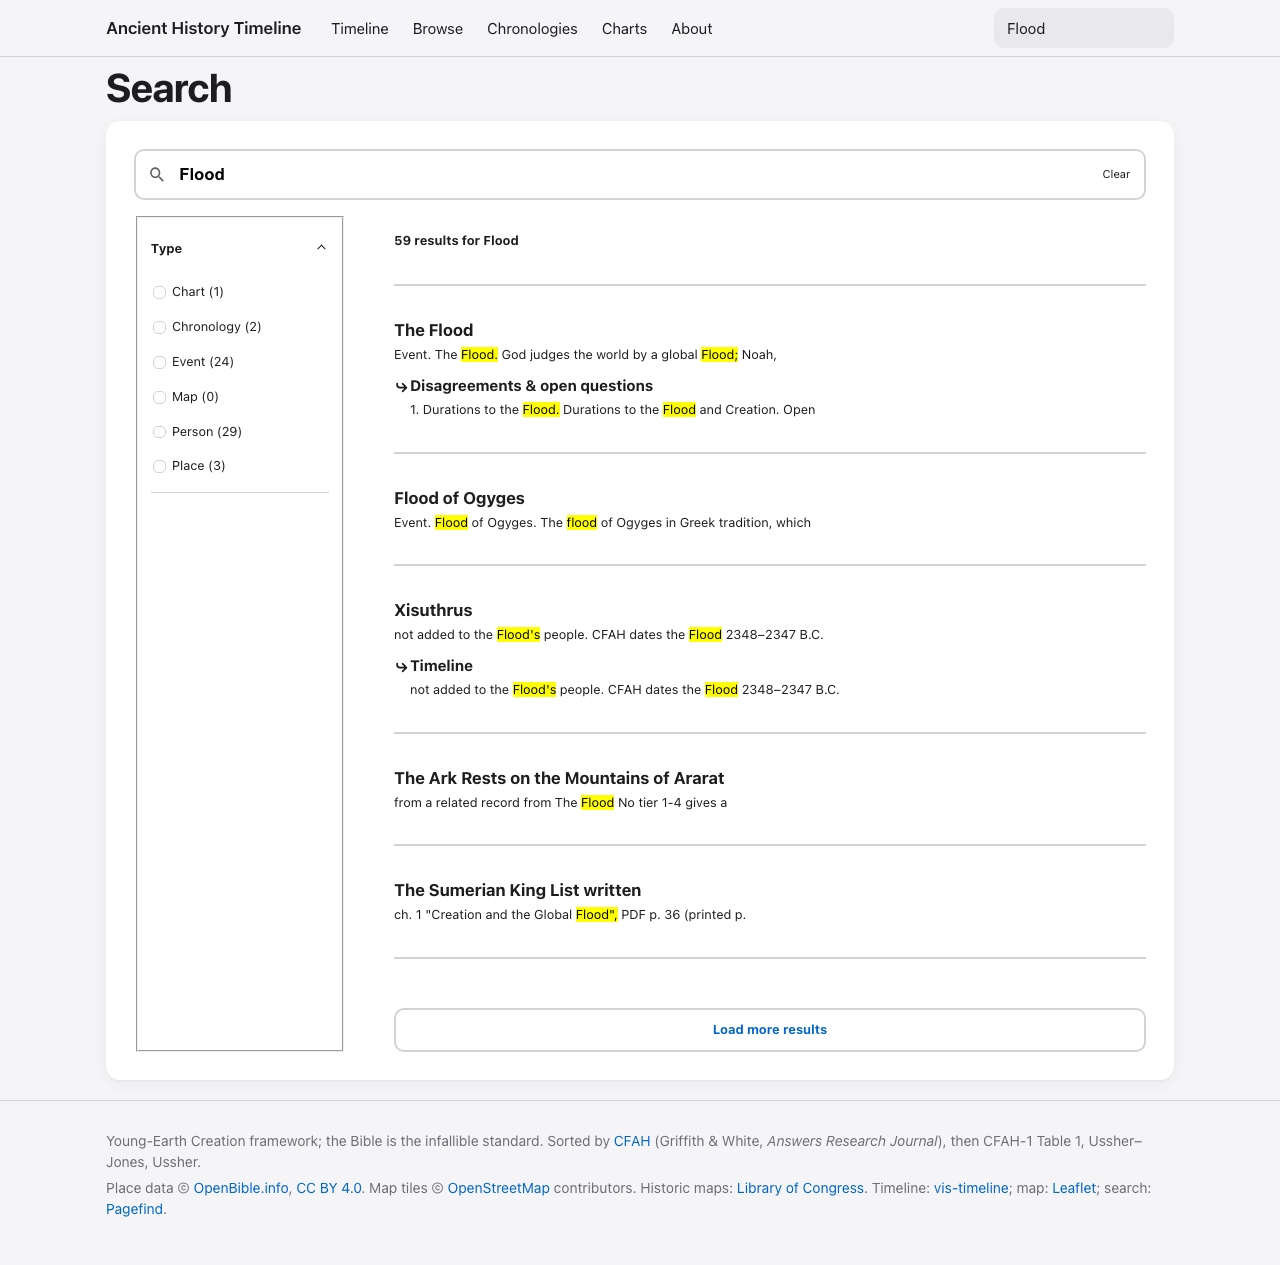
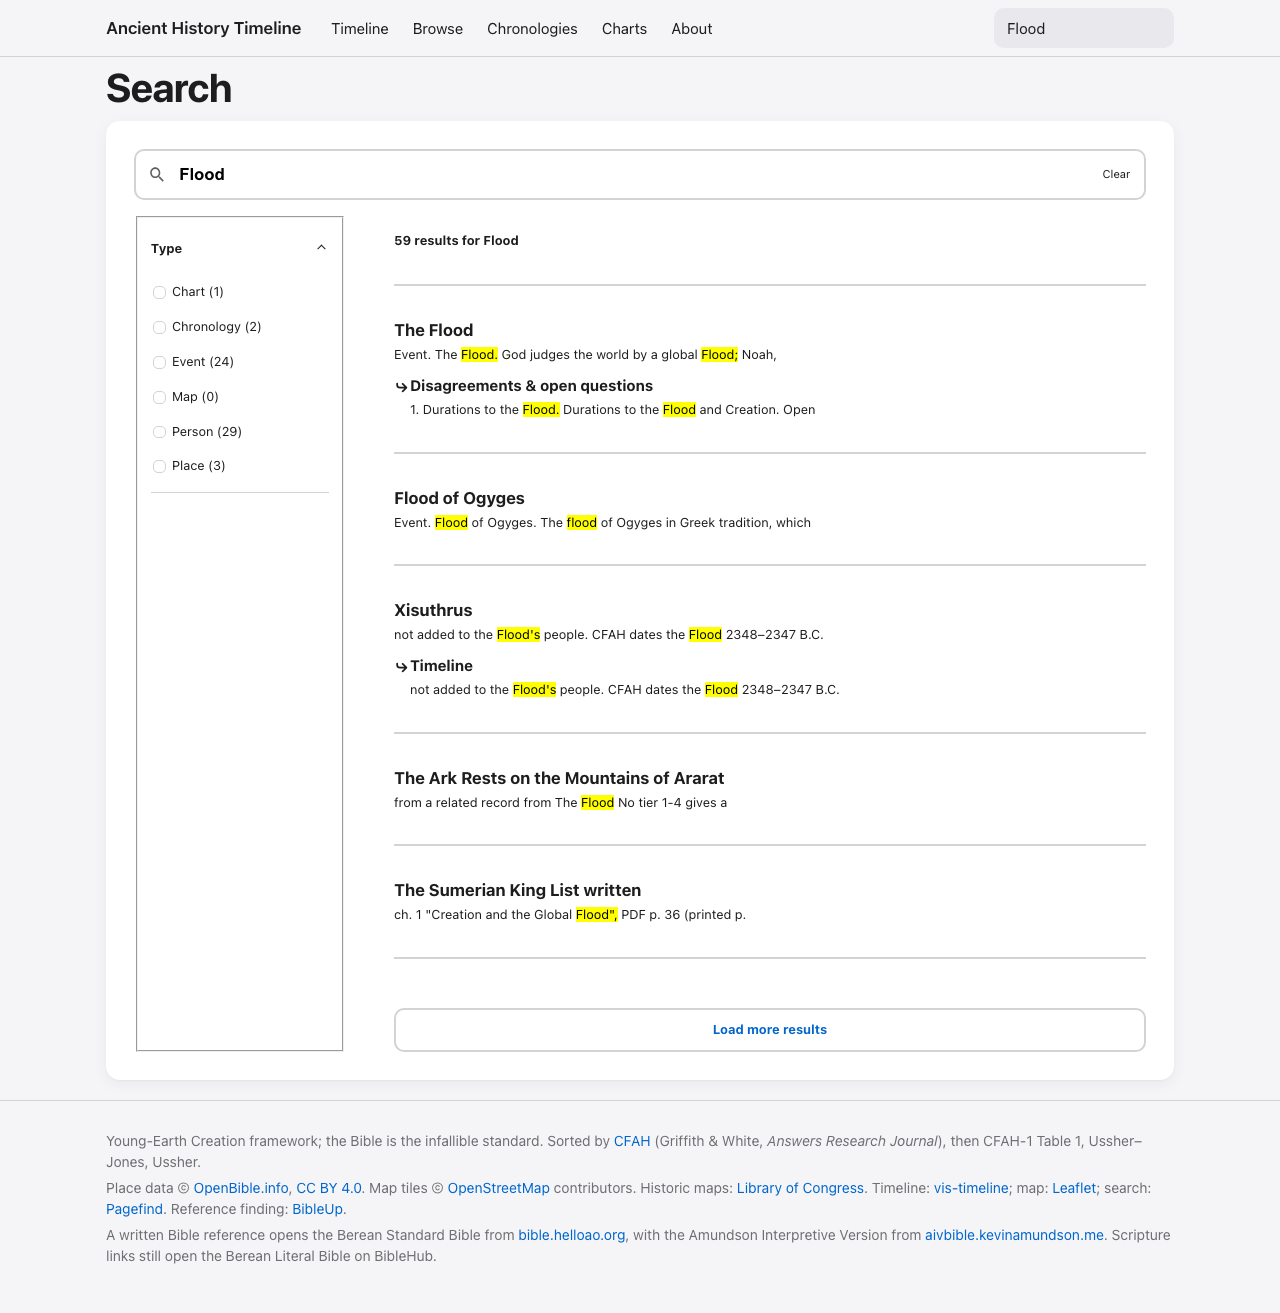
Open written Bible references in a Berean Standard Bible popover.
BibleUp finds the references. The page loads the Berean Standard Bible from bible.helloao.org and asks aivbible.kevinamundson.me for the Amundson Interpretive Version. Every page gets that from one script tag.

diff --git a/site/src/bibleup.js b/site/src/bibleup.js
@@ -1,0 +1,204 @@
+/* BibleUp finds written references. Its own version list has no Berean Standard Bible and no
+   Amundson Interpretive Version, so this file keeps the detection and loads the text itself.
+   BSB comes from the Free Use Bible API. AIV is requested from aivbible.kevinamundson.me.
+   BibleUp is prepended to this file at build time, so the page needs one script tag. */
+(function () {
+  'use strict';
+  var root = document.getElementById('main');
+  if (!root || !window.BibleUp) return;
+
+  var HELLO = 'https://bible.helloao.org/api/BSB/';
+  var AIV = 'https://aivbible.kevinamundson.me';
+  // Folder names in the public AIV chapter files. Song of Solomon is song-of-songs there.
+  var AIV_SLUG = {
+    GEN: 'genesis', EXO: 'exodus', LEV: 'leviticus', NUM: 'numbers', DEU: 'deuteronomy',
+    JOS: 'joshua', JDG: 'judges', RUT: 'ruth', '1SA': '1-samuel', '2SA': '2-samuel',
+    '1KI': '1-kings', '2KI': '2-kings', '1CH': '1-chronicles', '2CH': '2-chronicles',
+    EZR: 'ezra', NEH: 'nehemiah', EST: 'esther', JOB: 'job', PSA: 'psalms', PRO: 'proverbs',
+    ECC: 'ecclesiastes', SNG: 'song-of-songs', ISA: 'isaiah', JER: 'jeremiah', LAM: 'lamentations',
+    EZK: 'ezekiel', DAN: 'daniel', HOS: 'hosea', JOL: 'joel', AMO: 'amos', OBA: 'obadiah',
+    JON: 'jonah', MIC: 'micah', NAM: 'nahum', HAB: 'habakkuk', ZEP: 'zephaniah', HAG: 'haggai',
+    ZEC: 'zechariah', MAL: 'malachi', MAT: 'matthew', MRK: 'mark', LUK: 'luke', JHN: 'john',
+    ACT: 'acts', ROM: 'romans', '1CO': '1-corinthians', '2CO': '2-corinthians', GAL: 'galatians',
+    EPH: 'ephesians', PHP: 'philippians', COL: 'colossians', '1TH': '1-thessalonians',
+    '2TH': '2-thessalonians', '1TI': '1-timothy', '2TI': '2-timothy', TIT: 'titus', PHM: 'philemon',
+    HEB: 'hebrews', JAS: 'james', '1PE': '1-peter', '2PE': '2-peter', '1JN': '1-john',
+    '2JN': '2-john', '3JN': '3-john', JUD: 'jude', REV: 'revelation'
+  };
+
+  // KJV is only the key BibleUp accepts. The popover never asks api.bible for it.
+  var savedKey = window.onkeydown;
+  var finder = new BibleUp(root, { version: 'KJV', popup: 'classic', darkTheme: false });
+  finder.create();
+  window.onkeydown = savedKey;
+  document.querySelectorAll('[id^="bu-popup-"]').forEach(function (el) { el.remove(); });
+
+  var pop = document.createElement('div');
+  pop.className = 'bible-popover bu-ignore';
+  pop.hidden = true;
+  pop.setAttribute('role', 'dialog');
+  pop.setAttribute('aria-label', 'Bible reference');
+  pop.innerHTML = '<div class="bible-popover-head"><p class="bible-popover-ref"></p><p class="bible-popover-version">BSB</p><button type="button" class="bible-popover-close" aria-label="Close">×</button></div><div class="bible-popover-body"><p class="bible-popover-status"></p><ol class="bible-popover-verses"></ol><section class="bible-popover-aiv" hidden><h2>Amundson Interpretive Version</h2><ol></ol><p class="bible-popover-aiv-note"></p></section></div><p class="bible-popover-foot">Berean Standard Bible via <a href="https://bible.helloao.org/" rel="noopener">bible.helloao.org</a>. Amundson Interpretive Version: <a href="https://aivbible.kevinamundson.me" rel="noopener">aivbible.kevinamundson.me</a>.</p>';
+  document.body.appendChild(pop);
+  var refEl = pop.querySelector('.bible-popover-ref');
+  var statusEl = pop.querySelector('.bible-popover-status');
+  var bsbList = pop.querySelector('.bible-popover-verses');
+  var aivBox = pop.querySelector('.bible-popover-aiv');
+  var aivList = aivBox.querySelector('ol');
+  var aivNote = pop.querySelector('.bible-popover-aiv-note');
+  var cache = new Map();
+  var token = 0;
+  var closeTimer = 0;
+  var anchor = null;
+
+  function plain(value) {
+    return String(value || '').replace(/<[^>]*>/g, ' ').replace(/\s+/g, ' ').trim();
+  }
+
+  function getJSON(url) {
+    if (!cache.has(url)) {
+      cache.set(url, fetch(url).then(function (res) {
+        if (!res.ok) throw new Error(String(res.status));
+        return res.json();
+      }).catch(function (err) {
+        cache.delete(url);
+        throw err;
+      }));
+    }
+    return cache.get(url);
+  }
+
+  // BibleUp stores apiBook as GEN.1.1 or GEN.1.1-GEN.1.3, always one chapter.
+  function parseApiBook(apiBook) {
+    var parts = String(apiBook || '').split('-');
+    var start = parts[0].split('.');
+    var end = (parts[1] || parts[0]).split('.');
+    var verse = parseInt(start[2], 10);
+    var verseEnd = parseInt(end[2], 10);
+    var chapter = parseInt(start[1], 10);
+    if (!start[0] || !chapter || !verse) return null;
+    if (!verseEnd || verseEnd < verse) verseEnd = verse;
+    return { bookId: start[0], chapter: chapter, verse: verse, verseEnd: verseEnd };
+  }
+
+  function bsbVerses(ref) {
+    return getJSON(HELLO + ref.bookId + '/' + ref.chapter + '.simple.json').then(function (data) {
+      var content = (data && data.chapter && data.chapter.content) || [];
+      return content.filter(function (row) {
+        return row.type === 'verse' && row.number >= ref.verse && row.number <= ref.verseEnd;
+      }).map(function (row) { return { n: row.number, text: plain(row.text) }; });
+    });
+  }
+
+  function aivVerses(ref) {
+    var slug = AIV_SLUG[ref.bookId];
+    if (!slug) return Promise.resolve(null);
+    var urls = [
+      AIV + '/translations/aiv/json/' + slug + '/chapter-' + ref.chapter + '.json',
+      AIV + '/json/' + slug + '/chapter-' + ref.chapter + '.json'
+    ];
+    function attempt(i) {
+      if (i >= urls.length) return null;
+      return getJSON(urls[i]).then(function (data) {
+        var rows = ((data && data.verses) || []).filter(function (row) {
+          return row.verse >= ref.verse && row.verse <= ref.verseEnd;
+        }).map(function (row) { return { n: row.verse, text: plain(row.text) }; });
+        return rows.length ? rows : attempt(i + 1);
+      }).catch(function () { return attempt(i + 1); });
+    }
+    return attempt(0);
+  }
+
+  function fill(list, rows) {
+    list.replaceChildren();
+    rows.forEach(function (row) {
+      var li = document.createElement('li');
+      li.value = row.n;
+      li.textContent = row.text;
+      list.appendChild(li);
+    });
+  }
+
+  function hide() {
+    pop.hidden = true;
+    if (anchor) anchor.setAttribute('aria-expanded', 'false');
+    anchor = null;
+  }
+
+  function place(link) {
+    var rect = link.getBoundingClientRect();
+    var width = pop.offsetWidth;
+    var height = pop.offsetHeight;
+    var left = Math.min(Math.max(8, rect.left), window.innerWidth - width - 8);
+    var top = rect.bottom + 8;
+    if (top + height > window.innerHeight - 8 && rect.top - height - 8 > 8) top = rect.top - height - 8;
+    pop.style.left = left + 'px';
+    pop.style.top = Math.max(8, top) + 'px';
+  }
+
+  function open(link) {
+    var data = {};
+    try { data = JSON.parse(link.getAttribute('bu-data') || ''); } catch (e) { return; }
+    var ref = parseApiBook(data.apiBook);
+    if (!ref) return;
+    var mine = ++token;
+    anchor = link;
+    link.setAttribute('aria-expanded', 'true');
+    var label = data.ref || link.textContent;
+    refEl.textContent = label;
+    pop.setAttribute('aria-label', label);
+    statusEl.hidden = false;
+    statusEl.textContent = 'Loading the Berean Standard Bible…';
+    bsbList.replaceChildren();
+    aivBox.hidden = true;
+    aivList.replaceChildren();
+    aivNote.textContent = '';
+    pop.hidden = false;
+    place(link);
+    Promise.all([bsbVerses(ref).catch(function () { return null; }), aivVerses(ref)]).then(function (both) {
+      if (mine !== token) return;
+      var bsb = both[0];
+      var aiv = both[1];
+      if (!bsb || !bsb.length) {
+        statusEl.hidden = false;
+        statusEl.textContent = 'The Berean Standard Bible text could not be loaded.';
+      } else {
+        statusEl.hidden = true;
+        statusEl.textContent = '';
+        fill(bsbList, bsb);
+      }
+      aivBox.hidden = false;
+      if (aiv && aiv.length) fill(aivList, aiv);
+      else aivNote.textContent = 'The Amundson Interpretive Version could not be loaded.';
+      place(link);
+    });
+  }
+
+  function arm(link) {
+    link.setAttribute('aria-haspopup', 'dialog');
+    link.setAttribute('aria-expanded', 'false');
+    link.addEventListener('mouseenter', function () { clearTimeout(closeTimer); open(link); });
+    link.addEventListener('focus', function () { clearTimeout(closeTimer); open(link); });
+    link.addEventListener('click', function (e) { e.preventDefault(); clearTimeout(closeTimer); open(link); });
+    link.addEventListener('mouseleave', function () { closeTimer = setTimeout(hide, 180); });
+  }
+
+  document.querySelectorAll('a[bu-data]').forEach(function (link) {
+    var fresh = link.cloneNode(true);
+    fresh.setAttribute('href', '#');
+    link.replaceWith(fresh);
+    arm(fresh);
+  });
+
+  pop.addEventListener('mouseenter', function () { clearTimeout(closeTimer); });
+  pop.addEventListener('mouseleave', function () { closeTimer = setTimeout(hide, 180); });
+  pop.querySelector('.bible-popover-close').addEventListener('click', hide);
+  document.addEventListener('keydown', function (e) {
+    if (e.key === 'Escape' && !pop.hidden) hide();
+  });
+  document.addEventListener('click', function (e) {
+    if (pop.hidden) return;
+    if (pop.contains(e.target) || (e.target.closest && e.target.closest('a[bu-data]'))) return;
+    hide();
+  });
+})();

diff --git a/site/src/styles.css b/site/src/styles.css
@@ -187,6 +187,23 @@ div.vis-tooltip { font-family: var(--font); font-size: 13px; background: var(--b
 /* Pagefind UI */
 #search { --pagefind-ui-primary: var(--accent); --pagefind-ui-text: var(--label); --pagefind-ui-background: var(--bg-elev); --pagefind-ui-border: var(--sep); --pagefind-ui-tag: var(--bg-fill); --pagefind-ui-font: var(--font); --pagefind-ui-border-radius: 10px; }
 
+/* Bible reference popover. Colours follow the page tokens, including dark mode. */
+cite.bu-link { font-style: normal; }
+cite.bu-link a { text-decoration: underline dotted; text-underline-offset: 3px; }
+.bible-popover { position: fixed; z-index: 1100; width: min(22rem, calc(100vw - 24px)); max-height: min(70vh, 28rem); overflow: auto; background: var(--bg-elev); color: var(--label); border: 1px solid var(--sep); border-radius: var(--radius); box-shadow: var(--shadow); font-size: 15px; line-height: 1.47; }
+.bible-popover[hidden] { display: none; }
+.bible-popover-head { display: flex; align-items: center; gap: 8px; padding: 8px 8px 8px 14px; border-bottom: 1px solid var(--sep); position: sticky; top: 0; background: var(--bg-elev); }
+.bible-popover-ref { margin: 0; font-weight: 600; flex: 1; }
+.bible-popover-version { margin: 0; font-size: 12px; font-weight: 600; color: var(--accent); background: var(--accent-fill); border-radius: 999px; padding: 2px 8px; }
+.bible-popover-close { min-width: 44px; min-height: 44px; padding: 0; font-size: 20px; line-height: 1; }
+.bible-popover-body { padding: 12px 14px 4px; }
+.bible-popover-verses, .bible-popover-aiv ol { margin: 0; padding-left: 1.4em; }
+.bible-popover-verses li, .bible-popover-aiv li { margin: 0 0 8px; }
+.bible-popover-aiv { margin-top: 8px; padding-top: 8px; border-top: 1px solid var(--sep); }
+.bible-popover-aiv h2 { font-size: 12px; letter-spacing: .04em; text-transform: uppercase; color: var(--label-2); margin: 0 0 6px; font-weight: 600; }
+.bible-popover-aiv-note, .bible-popover-status { margin: 0 0 8px; color: var(--label-2); font-size: 14px; }
+.bible-popover-foot { margin: 0; padding: 8px 14px 12px; font-size: 12px; color: var(--label-2); }
+
 .site-footer { border-top: 1px solid var(--sep); padding: 24px 0 40px; }
 .site-footer p { margin: 6px 0; }
 @media (prefers-reduced-motion: reduce) { * { scroll-behavior: auto !important; transition: none !important; } }

diff --git a/docs/OPEN-QUESTIONS-FOR-KEVIN.md b/docs/OPEN-QUESTIONS-FOR-KEVIN.md
@@ -784,3 +784,17 @@ Decision: Raleigh stays AM only. No BC parenthetical will be added. `year_bc_ad`
   3. Add a named Hebrew edition (for example a facsimile of the Leningrad Codex) as a second check before the letters are called the Masoretic writing rather than “as printed in TIPNR.”
   4. Name the inscription editions to read next. Nothing is invented in the meantime.
 - **Recommendation:** option 1 for this merge, and option 3 before any caption says “Masoretic text” rather than “TIPNR.” The footnotes already say the letters are the ones TIPNR prints.
+
+## J. Bible reference popover (2026-10-24)
+
+### J1. Confirm the Amundson Interpretive Version address
+
+- **Why it matters:** a written reference (not an existing BibleHub link) opens a popover. The Berean Standard Bible is loaded from `https://bible.helloao.org/api/BSB/{book}/{chapter}.simple.json`. The Amundson Interpretive Version is then requested from `https://aivbible.kevinamundson.me`. On 2026-10-24 that host returned HTTP 520 for every path, and the error response sent no `Access-Control-Allow-Origin` header, so the browser blocked it. The live layout could not be opened. When the host is up it still has to send that header, or the popover cannot read the JSON.
+- **What the popover requests, in order:**
+  1. `/translations/aiv/json/<book>/chapter-<n>.json`
+  2. `/json/<book>/chapter-<n>.json`
+  Book folders follow the public chapter files (`genesis`, `1-corinthians`, `song-of-songs`). The verse `text` is shown. HTML in `links` or `comment` is not rendered. If both requests fail, the Berean Standard Bible still shows and the AIV block says it could not be loaded.
+- **Options:**
+  1. Keep these two paths.
+  2. Replace them with the path the site actually serves.
+- **Recommendation:** option 1 until the host answers. The standard text on the popover stays the Berean Standard Bible. Scripture links stay on the Berean Literal Bible at BibleHub.
